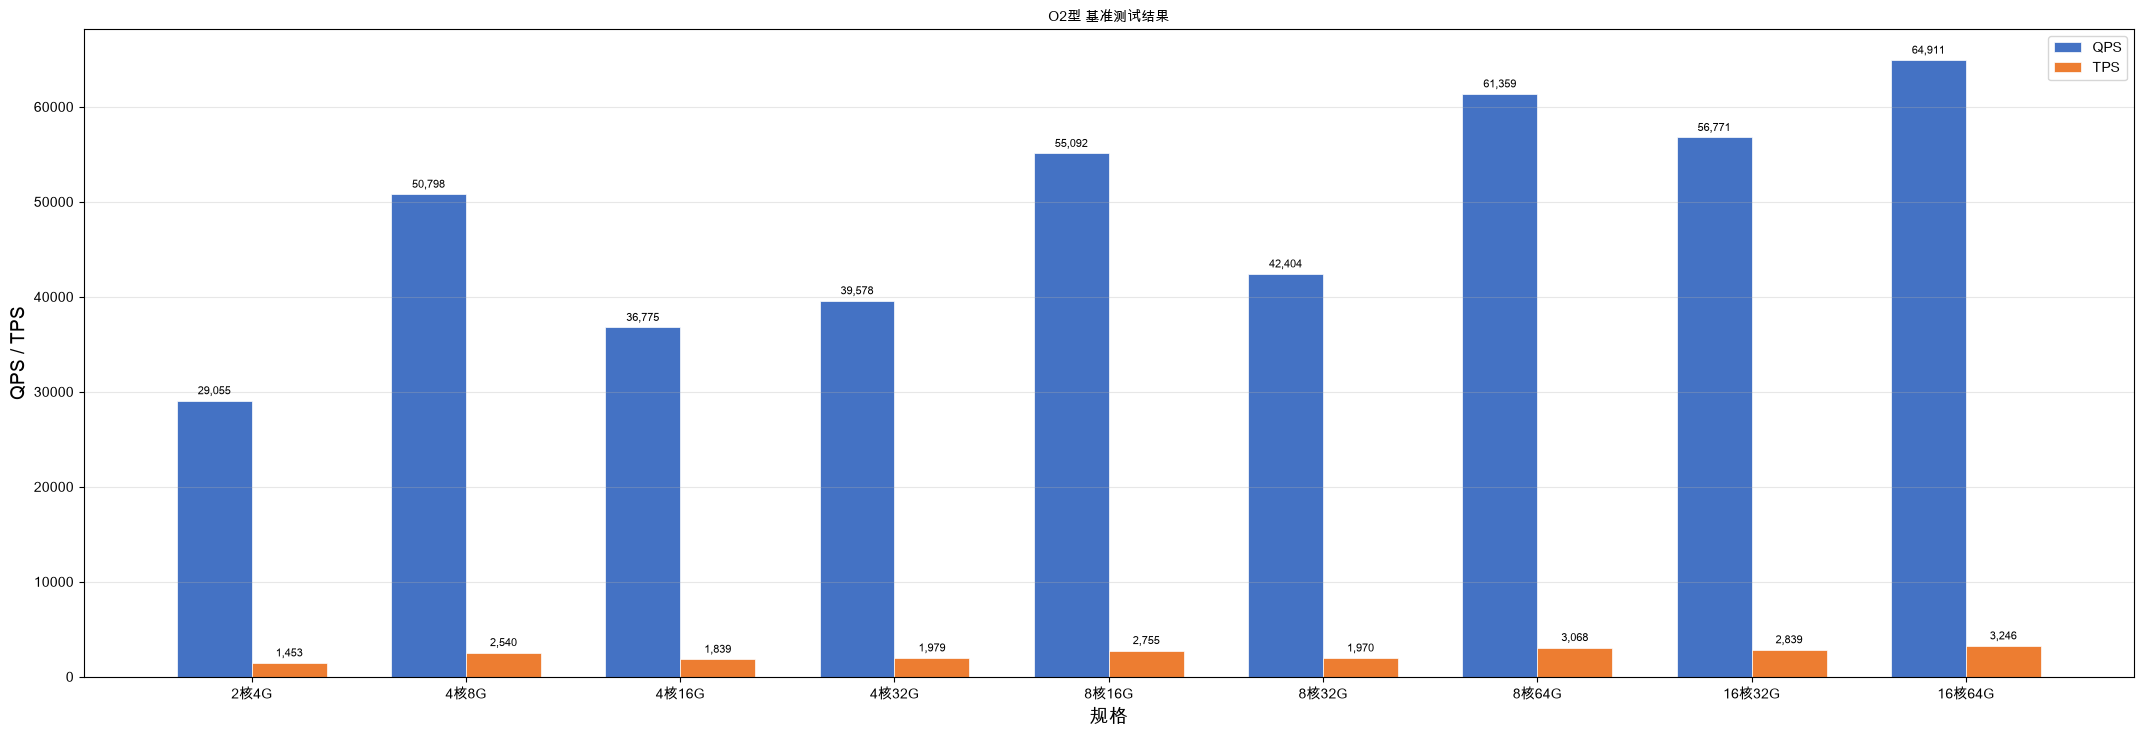
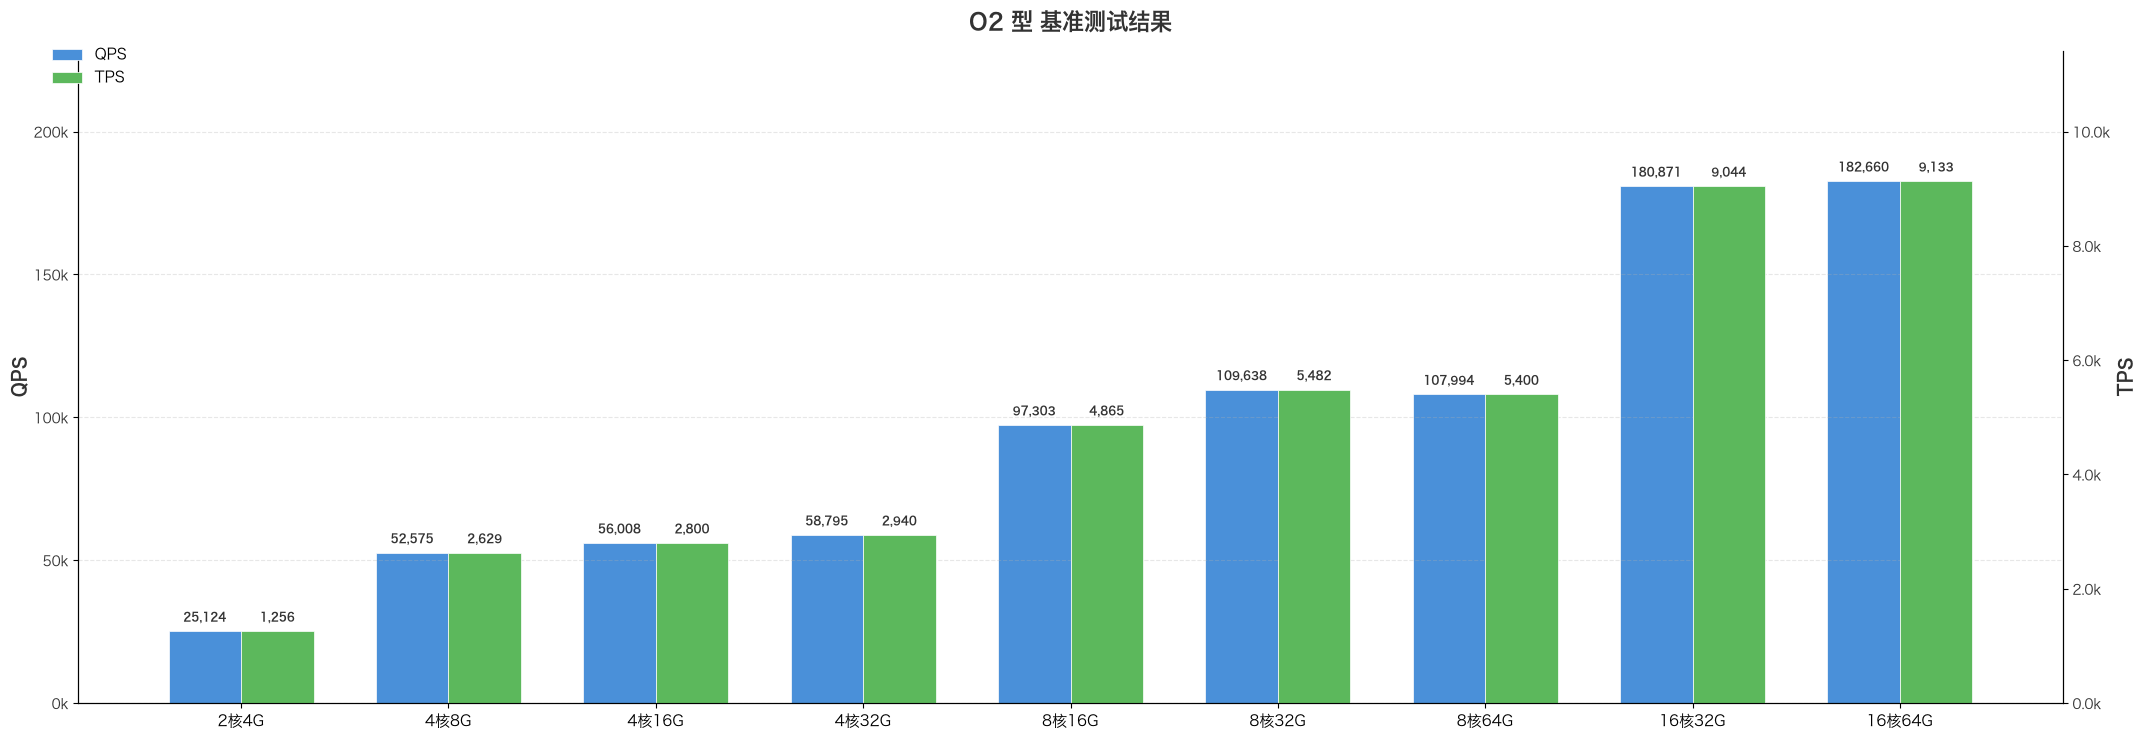
O2

diff --git a/test.md b/test.md
@@ -43,12 +43,12 @@ sysbench /usr/share/sysbench/oltp_read_write.lua --tables= --table-size= --m
 
 | <font style="color:#000000;">规格</font> | <font style="color:#000000;">单表数据量</font> | <font style="color:#000000;">表数量</font> | <font style="color:#000000;">sysbench线程数</font> | <font style="color:#000000;">QPS</font> | <font style="color:#000000;">TPS</font> | <font style="color:#000000;">avg_lst(95)</font> |
 | --- | --- | --- | --- | --- | --- | --- |
-| <font style="color:#000000;">2核4G</font> | <font style="color:#000000;">5000000</font> | <font style="color:#000000;">5</font> | <font style="color:#000000;">16</font> | <font style="color:#000000;">29055.07</font> | <font style="color:#000000;">1452.75</font> | <font style="color:#000000;">18.95</font> |
-| <font style="color:#000000;">4核8G</font> | <font style="color:#000000;">10000000</font> | <font style="color:#000000;">10</font> | <font style="color:#000000;">32</font> | <font style="color:#000000;">50798.27</font> | <font style="color:#000000;">2539.91</font> | <font style="color:#000000;">29.72</font> |
-| <font style="color:#000000;">4核16G</font> | <font style="color:#000000;">40000000</font> | <font style="color:#000000;">20</font> | <font style="color:#000000;">32</font> | <font style="color:#000000;">36774.74</font> | <font style="color:#000000;">1838.74</font> | <font style="color:#000000;">36.89</font> |
-| <font style="color:#000000;">4核32G</font> | <font style="color:#000000;">60000000</font> | <font style="color:#000000;">30</font> | <font style="color:#000000;">32</font> | <font style="color:#000000;">39578.03</font> | <font style="color:#000000;">1978.90</font> | <font style="color:#000000;">29.72</font> |
-| <font style="color:#000000;">8核16G</font> | <font style="color:#000000;">40000000</font> | <font style="color:#000000;">20</font> | <font style="color:#000000;">64</font> | <font style="color:#000000;">55091.56</font> | <font style="color:#000000;">2754.58</font> | <font style="color:#000000;">54.83</font> |
-| <font style="color:#000000;">8核32G</font> | <font style="color:#000000;">60000000</font> | <font style="color:#000000;">30</font> | <font style="color:#000000;">64</font> | <font style="color:#000000;">42404.36</font> | <font style="color:#000000;">1970.22</font> | <font style="color:#000000;">82.96</font> |
-| <font style="color:#000000;">8核64G</font> | <font style="color:#000000;">60000000</font> | <font style="color:#000000;">64</font> | <font style="color:#000000;">64</font> | <font style="color:#000000;">61358.62</font> | <font style="color:#000000;">3067.93</font> | <font style="color:#000000;">41.10</font> |
-| <font style="color:#000000;">16核32G</font> | <font style="color:#000000;">60000000</font> | <font style="color:#000000;">30</font> | <font style="color:#000000;">64</font> | <font style="color:#000000;">56771.02</font> | <font style="color:#000000;">2838.55</font> | <font style="color:#000000;">92.42</font> |
-| <font style="color:#000000;">16核64G</font> | <font style="color:#000000;">60000000</font> | <font style="color:#000000;">64</font> | <font style="color:#000000;">64</font> | <font style="color:#000000;">64911.00</font> | <font style="color:#000000;">3245.55</font> | <font style="color:#000000;">44.98</font> |
+| <font style="color:#000000;">2核4G</font> | <font style="color:#000000;">1000000</font> | <font style="color:#000000;">100</font> | <font style="color:#000000;">8</font> | <font style="color:#000000;">25123.72</font> | <font style="color:#000000;">1256.19</font> | <font style="color:#000000;">10.27</font> |
+| <font style="color:#000000;">4核8G</font> | <font style="color:#000000;">1000000</font> | <font style="color:#000000;">100</font> | <font style="color:#000000;">16</font> | <font style="color:#000000;">52575.08</font> | <font style="color:#000000;">2628.75</font> | <font style="color:#000000;">25.28</font> |
+| <font style="color:#000000;">4核16G</font> | <font style="color:#000000;">1000000</font> | <font style="color:#000000;">100</font> | <font style="color:#000000;">32</font> | <font style="color:#000000;">56008.07</font> | <font style="color:#000000;">2800.40</font> | <font style="color:#000000;">24.83</font> |
+| <font style="color:#000000;">4核32G</font> | <font style="color:#000000;">1000000</font> | <font style="color:#000000;">100</font> | <font style="color:#000000;">64</font> | <font style="color:#000000;">58795.14</font> | <font style="color:#000000;">2939.76</font> | <font style="color:#000000;">57.87</font> |
+| <font style="color:#000000;">8核16G</font> | <font style="color:#000000;">1000000</font> | <font style="color:#000000;">100</font> | <font style="color:#000000;">32</font> | <font style="color:#000000;">97303.28</font> | <font style="color:#000000;">4865.16</font> | <font style="color:#000000;">11.04</font> |
+| <font style="color:#000000;">8核32G</font> | <font style="color:#000000;">1000000</font> | <font style="color:#000000;">100</font> | <font style="color:#000000;">64</font> | <font style="color:#000000;">109638.16</font> | <font style="color:#000000;">5481.91</font> | <font style="color:#000000;">8.43</font> |
+| <font style="color:#000000;">8核64G</font> | <font style="color:#000000;">1000000</font> | <font style="color:#000000;">100</font> | <font style="color:#000000;">64</font> | <font style="color:#000000;">107993.83</font> | <font style="color:#000000;">5399.69</font> | <font style="color:#000000;">25.74</font> |
+| <font style="color:#000000;">16核32G</font> | <font style="color:#000000;">1000000</font> | <font style="color:#000000;">100</font> | <font style="color:#000000;">128</font> | <font style="color:#000000;">180871.33</font> | <font style="color:#000000;">9043.57</font> | <font style="color:#000000;">20.00</font> |
+| <font style="color:#000000;">16核64G</font> | <font style="color:#000000;">1000000</font> | <font style="color:#000000;">100</font> | <font style="color:#000000;">256</font> | <font style="color:#000000;">182659.66</font> | <font style="color:#000000;">9132.98</font> | <font style="color:#000000;">51.94</font> |